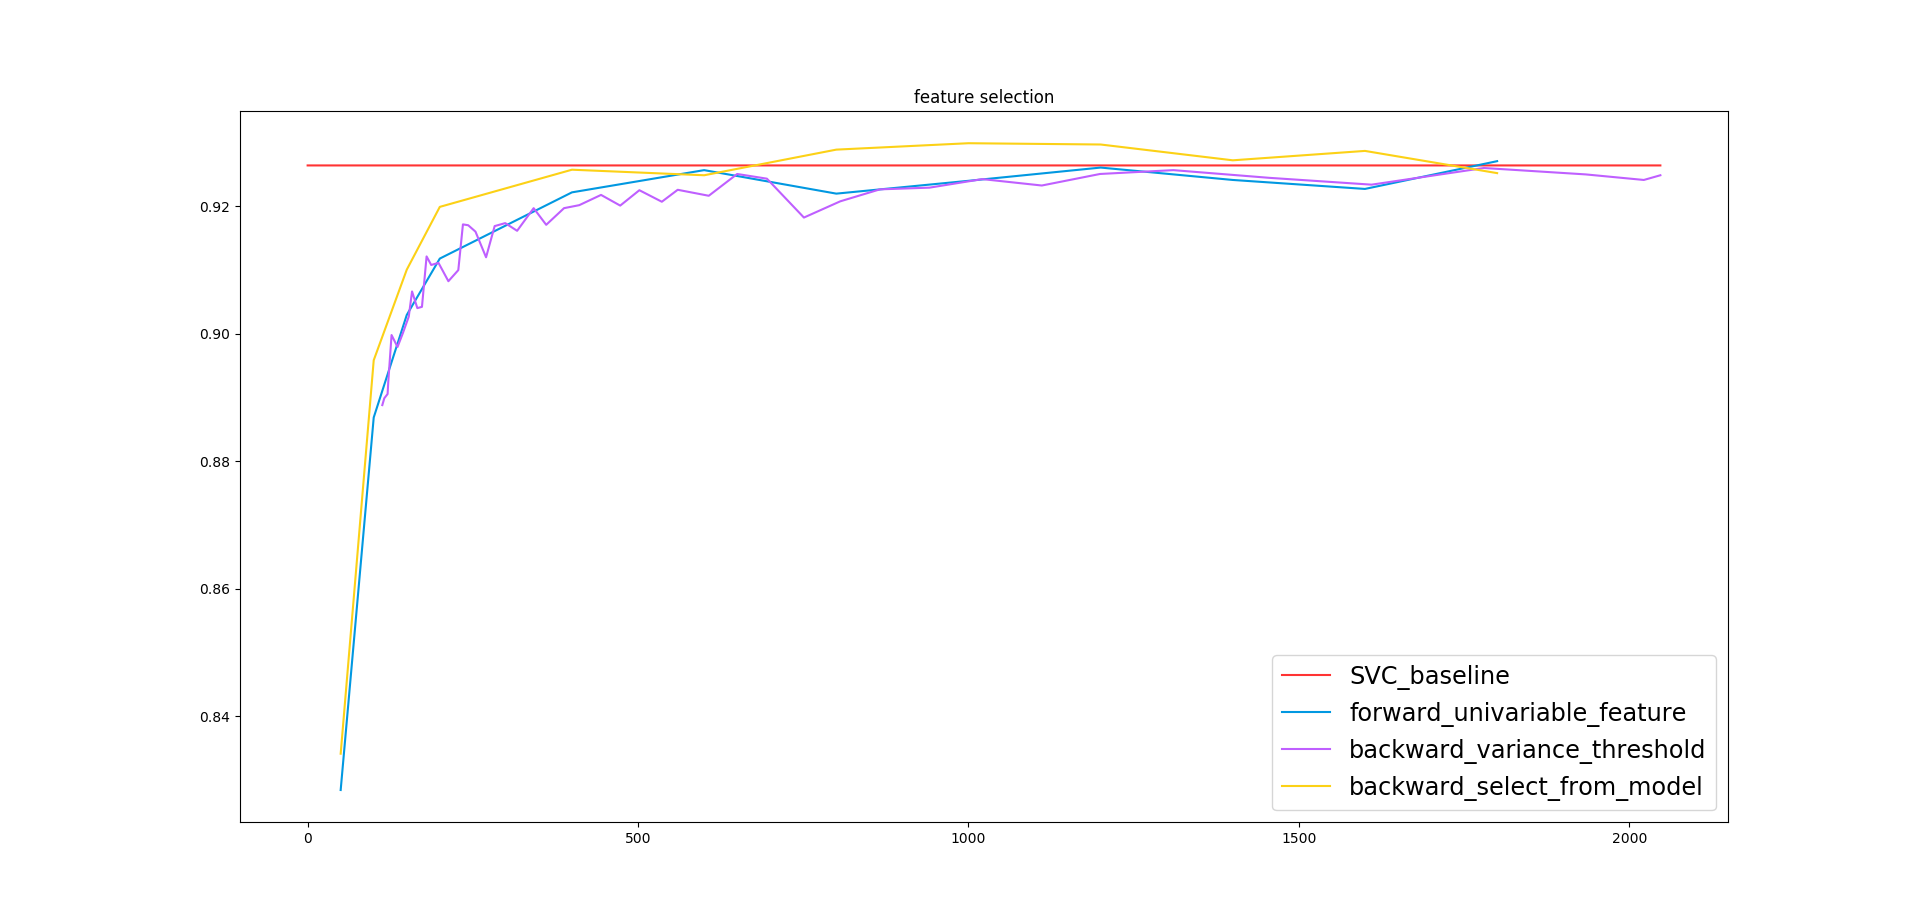
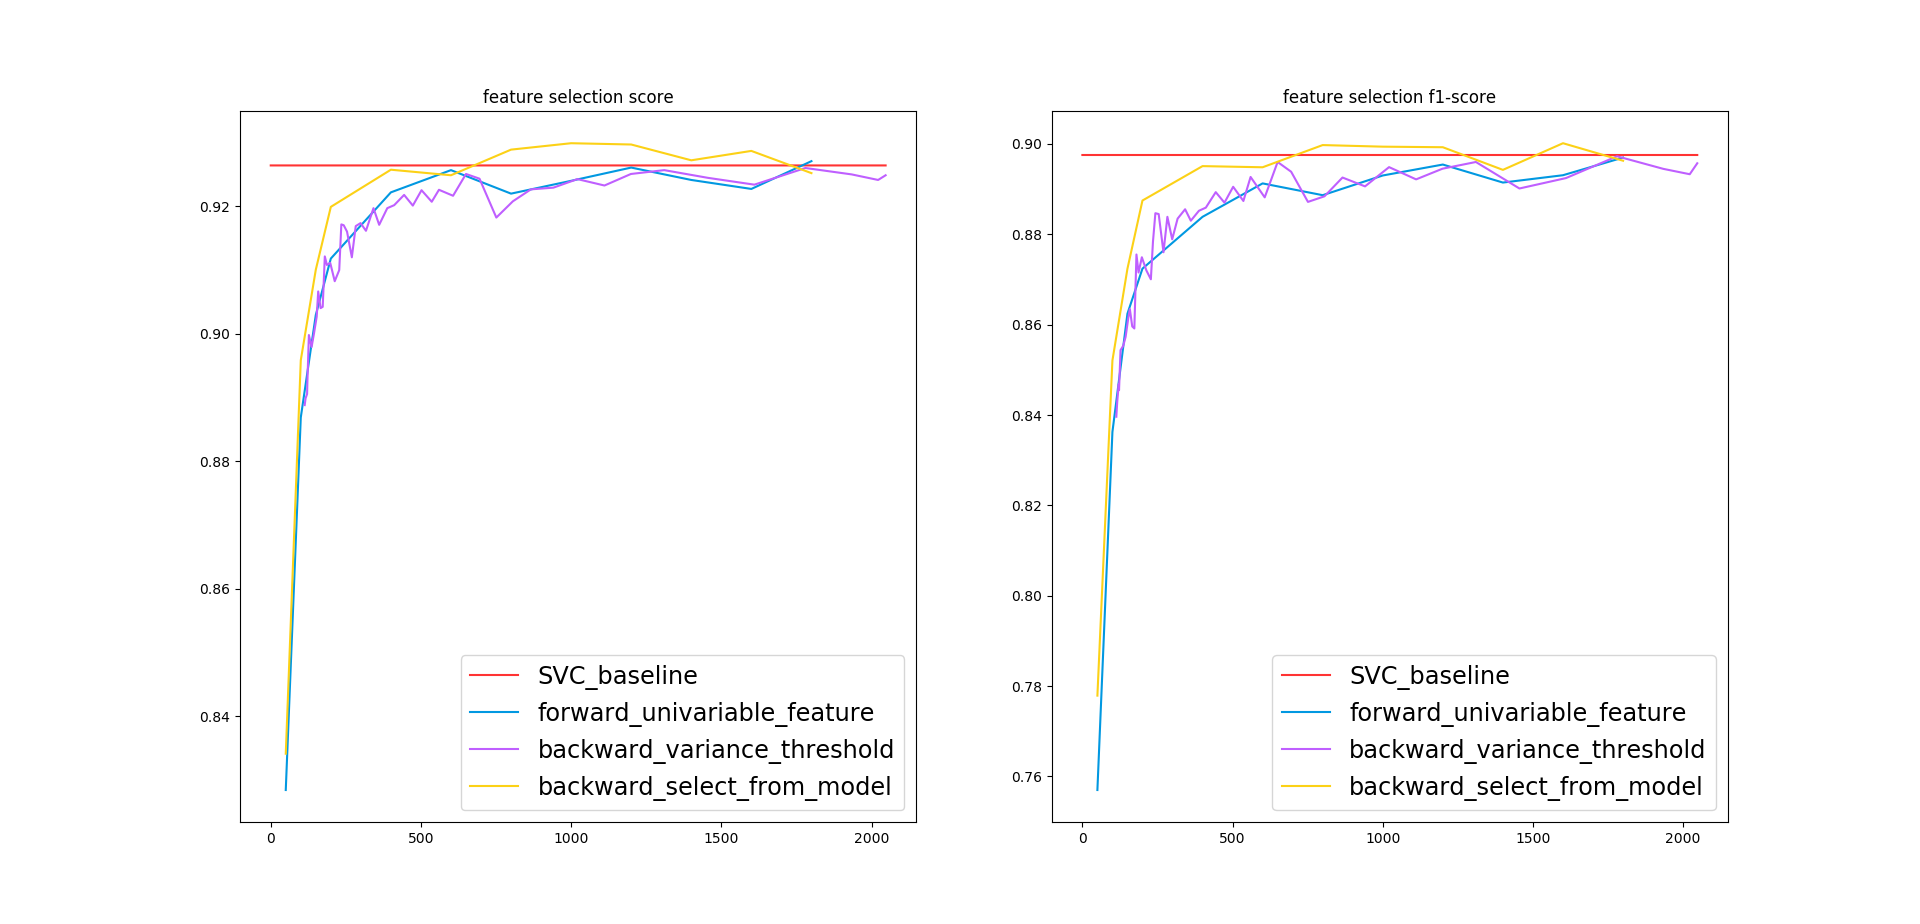
update report

diff --git a/report/template.tex b/report/template.tex
@@ -13,6 +13,9 @@
 \usepackage{microtype}      % microtypography
 \usepackage{lipsum}
 \usepackage{graphicx}
+\usepackage{amsmath}
+\usepackage{amsfonts}
+\usepackage{algorithm,algorithmic,bm,color}
 
 
 \newcommand{\argmin}{\arg\!\min}
@@ -121,8 +124,10 @@
 \newcommand{\tsp}{^{\mathsf{T}}}
 \newcommand{\inv}{^{-1}}
 \newcommand{\ie}{{\em i.e.}}
+\newcommand{\st}{{\em s.t.}}
 \newcommand{\eg}{{\em e.g.}}
 \newcommand{\wrt}{{\em w.r.t.\,}}
+\DeclareMathOperator{\mst}{s.t.}
 
 
 \title{Dimensionality Reduction}
@@ -152,26 +157,173 @@ In this report, we first use support vector machine (SVM) to classify 37322 imag
 
 
 \section{Introduction}
-Since the information revolution last century, more and more data has been generated. The dimension curse gradually becomes a critical problem in data science. The last decades have seen plenty of methods to reduce the dimensionality of the data. In this report, we will divide them into three classes, and discuss them based on solid experiment results.
+Since the information revolution last century, more and more data has been generated. The dimension curse gradually becomes a critical problem in data science. The last decades have seen plenty of methods to reduce the dimensionality of the data. 
 
-Support vector machine (SVM) is a classical method often applied in the classification tasks~\cite{SVM}. By introducing the kernel trick,  
+In this report, we will divide reduction methods into three classes, and discuss them based on solid experiment results. The first kind of reduction methods is feature selection, which means that we directly select important features from raw data to reduce the dimensionality, such as variance threshold based selection (VT), genetic algorithm(GA), and so on. The second one is feature projection, which means that we can apply reduction by projecting original features to a low dimensionality space without much loss of information, such as principle component analysis (PCA), linear discriminant analysis (LDA). The last but not least, we will introduce some nowadays prevalent methods based on feature learning, such as t-distributed stochastic neighbor embedding (TSNE), random forest (RF), local linear embedding (LLE) and so on.
+
+Support vector machine (SVM) is a classical method often applied in the classification tasks~\cite{SVM}. By introducing the kernel trick, the SVM could overcome the limits of linear model, and be applied to non-linear problems~\cite{}. We will analyse several kinds of kernel SVM and compare their classification ability on AwA2 dataset.
 
 The Section~\ref{sec:baseline} is the leadin. We will introduce the assessment baseline and assessment criterions applied. The dimensionality reduction methods would be covered in the next three section. In Section~\ref{sec:selection}, we introduce the feature selection methods in detail. We analysis the feature projection methods in Section~\ref{sec:projection}. The feature learning methods are discussed in Section~\ref{sec:learning}. The experiment results and comparisons are in the Section~\ref{sec:discussion}.  In the end, a thorough conclusion is made.
 
 
 \section{Baseline}
 \label{sec:baseline}
+\subsection{Theory}
+To analyse the effect of the dimensionality reduction methods, we have to set a baseline as a comparison. We select recommended linear SVM as our baseline model. Linear SVM solve the following primal problem
+\begin{equation}
+	\label{eq:lsvm}
+	\begin{split}
+		\min~&\frac{1}{2} \wv^T\wv + C\sum_{i=1}^{N} \epsilon_i\\
+		\mst~&y_i(\wv^T\xv_i+b)\geq 1-\epsilon_i\\
+		     &\epsilon_i\geq0, i =1,\ldots,N.
+	\end{split}
+\end{equation}
+
+And the dual problem is
+\begin{equation}
+	\label{eq:lsvm_d}
+	\begin{split}
+		\min~&\frac{1}{2} \alphav^T\Qmat\alphav-\ev^T\alphav\\
+		\mst~&\yv^T\alphav=0\\
+			 &0\le\alphav_i\ge C, i=1,\ldots,N,
+	\end{split}
+\end{equation}
+where $\Qmat_{ij}$ is $y_iy_jx_i^Tx_j$, and $\ev$ is a unit vector of size $n\times1$. 
+
+However, we also make experiments on other kinds of SVM with different kernel function to compare their classification abilities. And we compare several kernel functions, such as,
+\begin{enumerate}
+	\item linear kernel function~~$<x,x'>$,
+	\item polynomial kernel function~~$(\gamma<x,x'>+r)^d$,
+	\item radial basis kernel function~~$\exp(-\gamma\|x-x'\|^2)$,
+	\item sigmoid kernel function~~$\tanh(\gamma<x,x'>+r)$.
+\end{enumerate}
+
+With kernel function, the primal problem of SVM becomes
+\begin{equation}
+	\label{eq:svm}
+	\begin{split}
+	\min~&\frac{1}{2} \wv^T\wv + C\sum_{i=1}^{N} \epsilon_i\\
+	\mst~&y_i(\wv^T\phi(\xv_i)+b)\geq 1-\epsilon_i\\
+	&\epsilon_i\geq0, i =1,\ldots,N.
+	\end{split}
+\end{equation}
+
+And the dual problem is
+\begin{equation}
+	\label{eq:svm_d}
+	\begin{split}
+	\min~&\frac{1}{2} \alphav^T\Qmat\alphav-\ev^T\alphav\\
+	\mst~&\yv^T\alphav=0\\
+	     &0\le\alphav_i\ge C, i=1,\ldots,N,
+	\end{split}
+\end{equation}
+where $\Qmat_{ij}$ is $y_iy_jK(x_i,x_j)$, $K(x_i,xj)$ is the kernel function and $\ev$ is a unit vector of size $N\times1$. 
+
+\subsection{SVM parameter setting}
+The experiment results will be discussed in the Section~\ref{sec:discussion}. Here, we just describe the experiment process in detail. For baseline implementation, we use the scikit-learn library~\cite{sklearn}. We split the dataset into training set and test set with a proportion of $3:2$, which means that $60\%$ of the AwA2 data is used to train the SVM model. After trying different values as shown in Figure~(\ref{fig:lSVM}), we finally build our linear SVM model with $C=0.01$.
+
+As shown in Figure~(\ref{fig:lSVM}), we select two criterions, accuracy score and f1-score, to compare the accuracy of SVMs. We will continue using these two in the following experiments. The accuracy score $s_1$ is defined by
+\begin{equation}
+	\label{eq:score}
+	s_1 = \frac{\sum_{i=1}^{N}\hat{y_i} == y_i}{N},
+\end{equation}
+where $\hat{y_i}$ is the predicted label for $i-th$ data.
+
+And the f1-score $s_{2k}$ for class $k$ is defined by
+\begin{equation}
+	\label{eq:f1-score}
+	\begin{split}
+	&s_{2k} = \frac{2P_k*R_k}{P_k+R_k},\\
+	&P_k = \frac{TP_K}{TP_k+FP_k},\\
+	&R_k = \frac{TP_k}{TP_k+FN_K}
+	\end{split}
+\end{equation},
+where $P$ is the precision, $R$ is the recall, $TP$ is true positive amount, $FP$ is false positive amount, $FN$ is the false negative amount.
+
+\begin{figure}
+	\label{fig:lSVM}
+	\caption{Set different parameter for linear SVM}
+	\includegraphics[width=\linewidth]{figs/baseline.png}
+\end{figure}
+
+The experiment results with different kernel functions are shown in the Figure~(\ref{fig:SVM}). We can find linear SVM nearly always outperforms others on the AwA2 dataset with arbitary parameter $C$. And linear SVM is much faster and smaller than any other kind of SVM. So it's reasonable that the linear SVM is recommended in the tutorial. It seems that the linear SVM is more robust than SVM with other kernels despite what the parameter $C$ is.
+
+The "ovo" in Figure~\ref{fig:SVM} means "one-vs-one" and "one-vs-rest" for multi- class classification~\cite{}. For "one-vs-one", if $K$ is the number of classes, then $K * (K - 1) / 2$ classifiers are constructed and each one trains data from two classes. As for "one-vs-rest", only $K$ classifiers are constructed. The result is similar for the both kind of classifiers. To reduce the calculation, we use "ovr" in our baseline linear SVM.
+
+\begin{figure}
+	\label{fig:SVM}
+	\caption{Different SVM kernels.}
+	\includegraphics[width=\linewidth]{figs/compare.png}
+\end{figure}
+
 
 \section{Feature selection}
 \label{sec:selection}
-Feature selection is a kind of methods that directly select some features from the original data. The core of these methods are often the selection criterion. The thought of feature selection is simple but they are efficient and reliable.
-\subsection{Theory}
-We will introduce the feature selection methods used in our experiments.
-\subsubsection{Univariable feature}
-This is a forward selection method.
+Feature selection is a kind of methods that directly select some features from the original data. The core of these methods are often the selection criterion. The thought of feature selection is simple but they are efficient and reliable. We tried plenty of algorithms such as variance threshold based selection (VT), univariate feature selection (UF), selecting from model (SFM), calculating the area under the ROC curve (AUC\_ROC) and genetic algorithm (GA).
 
-\subsection{Experiment}
-This part is mainly about the implementation details and parameter settings. The figure of final results are shown in the Section~\ref{sec:discussion}.
+\subsection{Variance Threshold}
+The variance threshold based selection is in fact a kind of backward selection method. It removes all of the features whose variance can't reach a specific threshold. For example, if the feature is the same for every sample, obviously it is useless for classification task and it should be removed. The larger the threshold is, the less features remain. We tried $50$ kinds of threshold to draw a curve to show the relationship between accuracy and variance threshold (feature number) in Figure~\ref{fig:complete}. It could be described as the Algorithm~\ref{alg:vt}.
+
+\begin{algorithm}
+	\caption{VT}
+	\label{alg:vt}
+	\begin{algorithmic}[1]
+		\REQUIRE Variance threshold $v$, set of all the features $U$, feature amount $F$, data samples $\Xmat$ of size $N\times F$.
+		\ENSURE Selected features $S$.
+		\STATE Initialize $S=U$.
+		\FOR{$f=1,...,F$}
+			\IF{$Variance(\Xmat[:,f])<v$}
+				\STATE $S = S-{f}$.
+			\ENDIF
+		\ENDFOR\\
+		\RETURN $S$
+	\end{algorithmic}
+\end{algorithm}
+
+\subsection{Univariate Feature}
+This is a forward selection method. We test $12$ different feature amounts to draw the Figure~\ref{fig:complete}. The univariate feature selection is based on univariate statistic tests. It always select the features dependent on the label statistic. Here we use chi-square tests to describe the dependence between feature and label. If a statistic is dependent upon another one, the chi-square value $\chi^2$ between them will be very large. So we simply select the features with larger chi-square value denoted $\chi^2(\xv,\yv)$. This can be described in Algorithm~\ref{alg:uf} detailedly.
+
+\begin{algorithm}
+	\caption{UF}
+	\label{alg:uf}
+	\begin{algorithmic}[1]
+		\REQUIRE Desired feature amount $V$, set of all the features $U$, feature amount $F$, data samples $\Xmat$ of size $N\times F$.
+		\ENSURE Selected features $S$.
+		\STATE Initialize $S=U$.
+		\FOR{$f=1,...,F$}
+			\STATE $\chiv[f] = \chi^2(\Xmat[:,f],\yv)$.
+		\ENDFOR\\
+		\STATE Sort the $\chiv$ array in descending order.
+		\STATE Select the top $V$ features.
+		\RETURN $S$
+	\end{algorithmic}
+\end{algorithm}
+
+\subsection{Select From Model}
+This is a backward selection method. Since we already build a SVM in the experiment above, here is another method directly use the information of SVM to reduce the dimensionality. The scikit-learn library uses logistic function to map an output to the interval $(0,1)$ as Equation
+\begin{equation}
+	\label{eq:coef}
+	h(x) = \frac{1}{1+\exp^{-\thetav^Tx}}
+\end{equation}
+shows. And it uses a parameter called $SVM.\_coef$ to record the $\thetav$ in the logistic function for classification. We can treat this $\thetav$ as a vector of weighting coefficients. Little weighting coefficient indicates little influence to the classification. So we could select features according to the coefficients. We have to assign a threshold or the desired feature number for the importance. The algorithm is similar to VT or UF, and we also set $12$ different value to get the curve in the Figure~\ref{fig:complete}.
+
+
+\subsection{Area Under Curve ROC}
+This is a forward selection method. This method is similar the univariate feature selection, the difference is the selection criterion is not the dependent degree, but the area under the curve of receiver operating characteristic (AUC\_ROC). 
+
+The ROC is kind a curve that measure the ability of classifier. Recall the true positive (TP), false positive, true negative (TN) and false negative (FN) mentioned above. We further define the false positive rate (FPR) and the true positive rate (TPR), where
+\begin{equation}
+	\label{eq:roc}
+	\begin{split}
+		&FPR = \frac{FP}{TN+FP},\\
+		&TPR = \frac{TP}{TP+FN}.
+	\end{split}
+\end{equation} 
+The axis of ROC is labelled by FPR and TPR. The AUC won't larger than $1$, since the FPR and TPR are both smaller than $1$. A good classifier is with lower FPR and higher TPR. That is, the AUC of the ROC should be as large as possible. So we first calculate the AUC\_ROC of every feature independently, then select features with higher AUC\_ROC values. 
+
+\subsection{Genetic Algorithm}
+The AwA2 dataset is so large that we can't run genetic algorithm (GA) directly on it. But we still analysis it and test it on a part of the AwA2 dataset. We think GA is not a good idea under this circumstance, because of the fact that it need to utilize too much calculation resource considering the frequent assessment of gene fitness and crossing over. What's more, an encoded gene (here we encode a gene with one-hot code of features) is too long, it doesn't solve the combination explosion problem even we can reduce the searching space slightly with fitness function in GA. Moreover, how to define a good fitness function is another knotty problem.
+
 
 \section{Feature projection}
 \label{sec:projection}
@@ -181,19 +333,11 @@ This part is mainly about the implementation details and parameter settings. The
 
 \section{Discussion}
 \label{sec:discussion}
-\subsection{SVM parameter setting}
-Though in the end, we choose the asked linear SVM to do the comparison experiments for dimensionality reduction, we still make experiment on the SVM parameter setting. The experiment results are shown in the Figure~(\ref{fig:SVM}).
-
-\begin{figure}
-	\label{fig:SVM}
-	\includegraphics[width=\linewidth]{figs/compare.png}
-\end{figure}
-
-
 \subsection{Reduction on the complete dataset}
-Most dimensionality reduction experiments were carried on the complete AwA2 dataset. We changed the number of selected features or other parameters to control the degree of the reduction, and then train linear SVMs on these reduction results. The criterions for the SVM predictions, as mentioned before, are the f1-score and mean accuracy. The comparison is shown in Figure~(\ref{fig:complete}).
+Most dimensionality reduction experiments were carried on the complete AwA2 dataset. We changed the number of selected features or other parameters to control the degree of the reduction, and then train linear SVMs on these reduction results. The criterions for the SVM predictions, as mentioned before, are the f1-score and mean accuracy. The comparison is shown in Figure~(\ref{fig:complete}). The red line is the linear SVM baseline.
   \begin{figure}
   	\label{fig:complete}
+  	\caption{Comparison on the AwA2 dataset.}
   	\includegraphics[width=\linewidth]{figs/feature_selection.png}
   \end{figure}
 

diff --git a/baseline_plot.py b/baseline_plot.py
@@ -95,13 +95,13 @@ if __name__ == "__main__":
 		f1 = contents[BASELINE][idx]['f1_score']
 		scs.append(sc)
 		f1s.append(f1)
-	plt.figure(figsize=(6, 6))
+	plt.figure(figsize=(3, 6))
+	plt.subplot(1,2,1)
 	plt.plot(CS,scs)
 	plt.title('baseline score')
 	plt.ylabel("score")
 	plt.xlabel("C")
-	plt.show()
-	plt.figure(figsize=(6, 6))
+	plt.subplot(1,2,2)
 	plt.plot(CS,f1s)
 	plt.title('baseline f1-score')
 	plt.ylabel("f1-score")
@@ -110,8 +110,11 @@ if __name__ == "__main__":
 	
 
 	# plot for summary
-	plt.figure(figsize=(6, 6))
+	plt.figure(figsize=(3, 6))
+	plt.subplot(1,2,1)
 	plt.plot([i for i in range(2048)], [scs[0] for _ in range(2048)],color=COLORS[0],label=BASELINE)
+	plt.subplot(1,2,2)
+	plt.plot([i for i in range(2048)], [f1s[0] for _ in range(2048)],color=COLORS[0],label=BASELINE)
 	# plot for forward_univariable_feature
 	zips = []
 	for idx, paras in enumerate(labels[F_UF]):
@@ -123,7 +126,10 @@ if __name__ == "__main__":
 	fns = [fn for fn,_,_ in zips] 
 	scs = [sc for _,sc,_ in zips] 
 	f1s = [f1 for _,_,f1 in zips] 
+	plt.subplot(1,2,1)
 	plt.plot(fns,scs,color=COLORS[1],label=F_UF)
+	plt.subplot(1,2,2)
+	plt.plot(fns,f1s,color=COLORS[1],label=F_UF)
 	scs = []
 	f1s = []
 	fns = []
@@ -134,7 +140,10 @@ if __name__ == "__main__":
 		f1 = contents[B_VT][idx]['f1_score']
 		scs.append(sc)
 		f1s.append(f1)
+	plt.subplot(1,2,1)
 	plt.plot(fns,scs,color=COLORS[2],label=B_VT)
+	plt.subplot(1,2,2)
+	plt.plot(fns,f1s,color=COLORS[2],label=B_VT)
 	# plot for backward_select_from_model
 	zips = []
 	for idx, paras in enumerate(labels[B_SFM]):
@@ -146,9 +155,14 @@ if __name__ == "__main__":
 	fns = [fn for fn,_,_ in zips] 
 	scs = [sc for _,sc,_ in zips] 
 	f1s = [f1 for _,_,f1 in zips] 
+	plt.subplot(1,2,1)
 	plt.plot(fns,scs,color=COLORS[3],label=B_SFM)
 	plt.legend(fontsize='xx-large')
-	plt.title("feature selection")
+	plt.title("feature selection score")
+	plt.subplot(1,2,2)
+	plt.plot(fns,f1s,color=COLORS[3],label=B_SFM)
+	plt.legend(fontsize='xx-large')
+	plt.title("feature selection f1-score")
 	plt.show()
 
 
@@ -163,13 +177,13 @@ if __name__ == "__main__":
 	fns = [fn for fn,_,_ in zips] 
 	scs = [sc for _,sc,_ in zips] 
 	f1s = [f1 for _,_,f1 in zips] 
-	plt.figure(figsize=(6, 6))
+	plt.figure(figsize=(3, 6))
+	plt.subplot(1,2,1)
 	plt.plot(fns,scs)
 	plt.title('forward univariable feature score')
 	plt.ylabel("score")
 	plt.xlabel("feature numbers")
-	plt.show()
-	plt.figure(figsize=(6, 6))
+	plt.subplot(1,2,2)
 	plt.plot(fns,f1s)
 	plt.title('forward univariable feature f1-score')
 	plt.ylabel("f1-score")
@@ -188,13 +202,13 @@ if __name__ == "__main__":
 		f1 = contents[B_VT][idx]['f1_score']
 		scs.append(sc)
 		f1s.append(f1)
-	plt.figure(figsize=(6, 6))
+	plt.figure(figsize=(3, 6))
+	plt.subplot(1,2,1)
 	plt.plot(fns,scs)
 	plt.title('backward variance threshold score')
 	plt.ylabel("score")
 	plt.xlabel("feature numbers")
-	plt.show()
-	plt.figure(figsize=(6, 6))
+	plt.subplot(1,2,2)
 	plt.plot(fns,f1s)
 	plt.title('backward variance threshold f1-score')
 	plt.ylabel("f1-score")
@@ -213,13 +227,13 @@ if __name__ == "__main__":
 	fns = [fn for fn,_,_ in zips] 
 	scs = [sc for _,sc,_ in zips] 
 	f1s = [f1 for _,_,f1 in zips] 
-	plt.figure(figsize=(6, 6))
+	plt.figure(figsize=(3, 6))
+	plt.subplot(1,2,1)
 	plt.plot(fns,scs)
 	plt.title('backward select from model score')
 	plt.ylabel("score")
 	plt.xlabel("feature numbers")
-	plt.show()
-	plt.figure(figsize=(6, 6))
+	plt.subplot(1,2,2)
 	plt.plot(fns,f1s)
 	plt.title('backward select from model f1-score')
 	plt.ylabel("f1-score")
